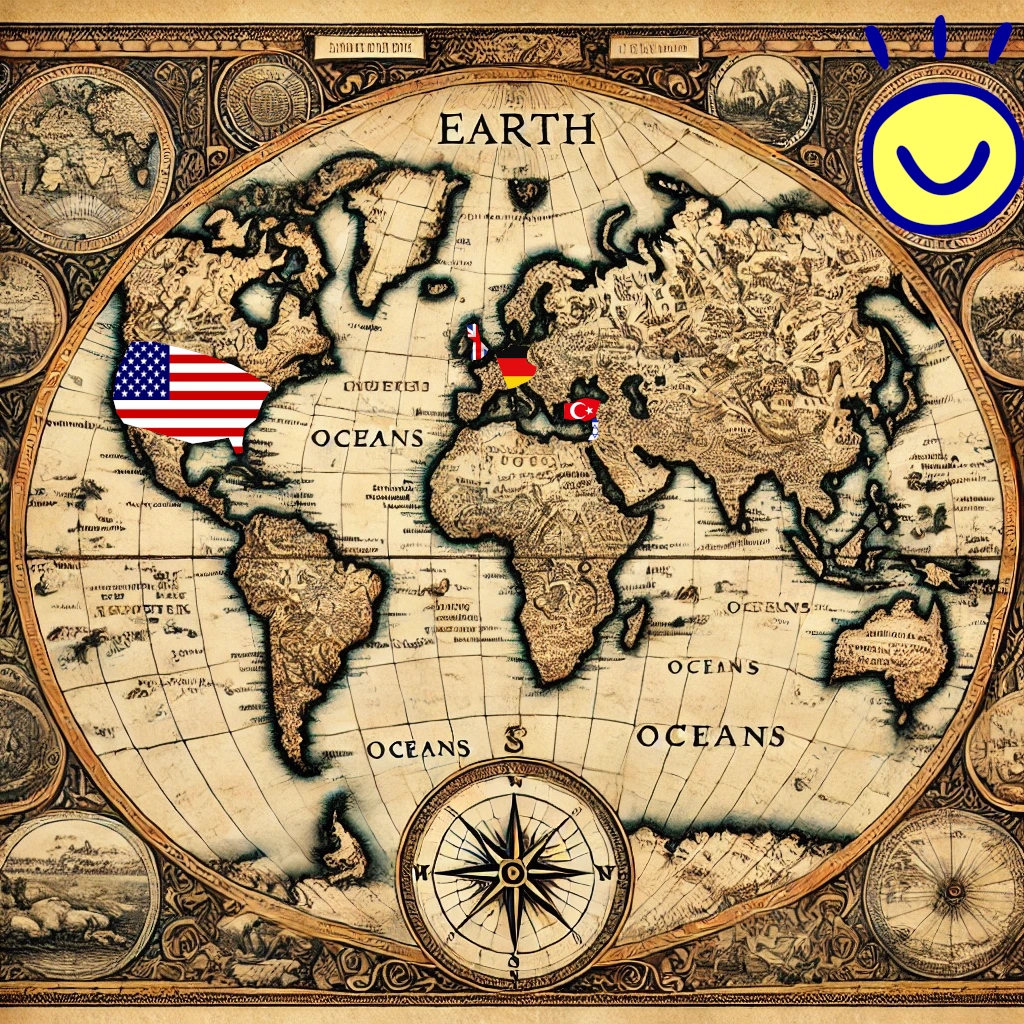
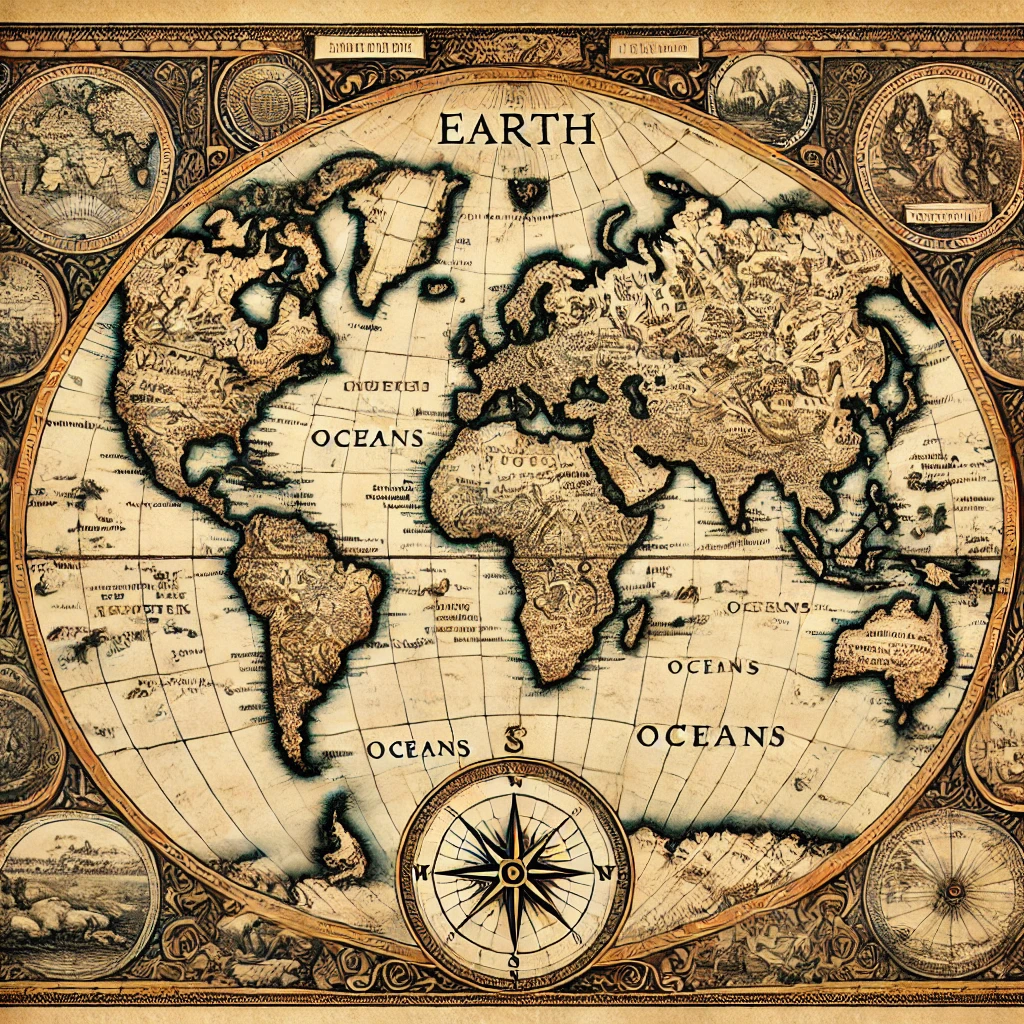
map specific size

diff --git a/pages/languages/languages.css b/pages/languages/languages.css
@@ -1,15 +1,47 @@
-body. html {
-    height: 100%;
-}
-
 body {
-    background-image: url("bg.jpg");
-    background-size: cover;
+    margin: 0;
+    overflow: hidden;
 }
 
-#map {
-    display: block;
-    width: 25%;
-    margin-left: auto;
-    margin-right: auto;
+.map-container {
+    position: relative;
+    width: 1024px;
+    max-height: 1024px;
+}
+
+.map-image {
+    width: 100%;
+    height: 100%;
+    object-fit: cover;
+}
+
+.flags {
+    position: absolute;
+    top: 0;
+    left: 0;
+    width: 100%;
+    height: 100%;
+    pointer-events: none;
+}
+
+.flag {
+    position: absolute;
+    pointer-events: auto;
+    transform: scale(1);
+    transition: transform 0.3s ease;
+}
+
+.flag:hover {
+    transform: scale(1.5);
+}
+
+.flag img {
+    width: 50px;
+    height: auto;
+    clip-path: polygon(
+        0% 0%,
+        100% 0%,
+        100% 100%,
+        0% 100%
+    );
 }

diff --git a/pages/languages/languages.html b/pages/languages/languages.html
@@ -6,6 +6,13 @@
     <link href="languages.css" rel="stylesheet" type="text/css" media="all">
 </head>
 <body>
-    <img id="map" src="map.png">
+    <div class="map-container">
+        <img src="map.png" class="map-image">
+        <div class="flags">
+            <a href="/index.html" class="flag" style="top: 50%; left: 30%;">
+                <img src="usa.png">
+            </a>
+        </div>
+    </div>
 </body>
 </html>
